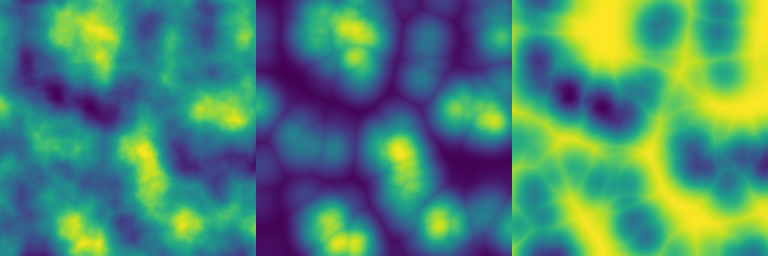
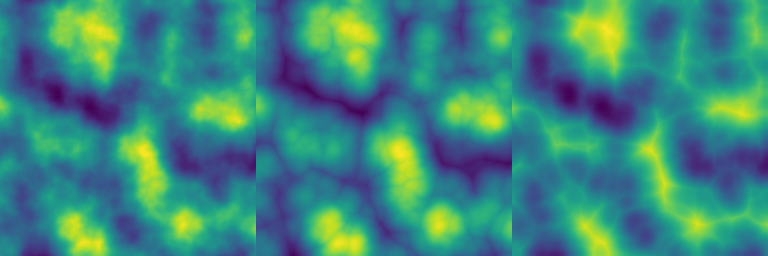
Fix issue with value range for expand and shrink

diff --git a/src/op/filters.cpp b/src/op/filters.cpp
@@ -1,5 +1,7 @@
 #include <cmath>
 
+#include "macrologger.h"
+
 #include "highmap/array.hpp"
 #include "highmap/op.hpp"
 #include "highmap/primitives.hpp"
@@ -19,11 +21,11 @@ void expand(Array &array, int ir)
   for (int i = 0; i < ni; i++)
   {
     int p1 = std::max(0, i - ir) - i;
-    int p2 = std::min(ni, i + ir) - i;
+    int p2 = std::min(ni, i + ir + 1) - i;
     for (int j = 0; j < nj; j++)
     {
       int q1 = std::max(0, j - ir) - j;
-      int q2 = std::min(nj, j + ir) - j;
+      int q2 = std::min(nj, j + ir + 1) - j;
       for (int p = p1; p < p2; p++)
         for (int q = q1; q < q2; q++)
         {
@@ -172,30 +174,10 @@ void sharpen(Array &array, float ratio)
 
 void shrink(Array &array, int ir)
 {
-  Array array_new = array;
-  int   ni = array.shape[0];
-  int   nj = array.shape[1];
-  Array k = cubic_pulse({2 * ir + 1, 2 * ir + 1});
-
-  for (int i = 0; i < ni; i++)
-  {
-    int p1 = std::max(0, i - ir) - i;
-    int p2 = std::min(ni, i + ir) - i;
-    for (int j = 0; j < nj; j++)
-    {
-      int q1 = std::max(0, j - ir) - j;
-      int q2 = std::min(nj, j + ir) - j;
-      for (int p = p1; p < p2; p++)
-        for (int q = q1; q < q2; q++)
-        {
-          float v = array(i + p, j + q) * k(p + ir, q + ir);
-          if (v < array_new(i, j))
-            array_new(i, j) = v;
-        }
-    }
-  }
-
-  array = array_new;
+  float amax = array.max();
+  array = amax - array;
+  expand(array, ir);
+  array = amax - array;
 }
 
 void smooth_cpulse(Array &array, int ir)

diff --git a/include/highmap/op.hpp b/include/highmap/op.hpp
@@ -200,7 +200,7 @@ void clamp_min(Array &array, float vmin);
 
 /**
  * @brief Clamp array values lower than a given bound with a smooth transition.
- * 
+ *
  * @param array Input array.
  * @param vmin Lower bound.
  * @param k Smoothing parameter in [0, 1].
@@ -219,7 +219,7 @@ void clamp_max(Array &array, float vmax);
 
 /**
  * @brief Clamp array values larger than a given bound with a smooth transition.
- * 
+ *
  * @param array Input array.
  * @param vmax Upper bound.
  * @param k Smoothing parameter in [0, 1].

diff --git a/src/op/range.cpp b/src/op/range.cpp
@@ -123,11 +123,11 @@ Array maximum_local_disk(const Array &array, int ir)
   for (int i = 0; i < ni; i++)
   {
     int p1 = std::max(0, i - ir) - i;
-    int p2 = std::min(ni, i + ir) - i;
+    int p2 = std::min(ni, i + ir + 1) - i;
     for (int j = 0; j < nj; j++)
     {
       int q1 = std::max(0, j - ir) - j;
-      int q2 = std::min(nj, j + ir) - j;
+      int q2 = std::min(nj, j + ir + 1) - j;
       for (int p = p1; p < p2; p++)
         for (int q = q1; q < q2; q++)
         {

diff --git a/examples/ex_expand/ex_expand.cpp b/examples/ex_expand/ex_expand.cpp
@@ -11,6 +11,9 @@ int main(void)
 
   hmap::Array z = hmap::fbm_perlin(shape, res, seed);
 
+  hmap::remap(z);
+  z.infos();
+
   int  ir = 32;
   auto z1 = z;
   hmap::expand(z1, ir);
